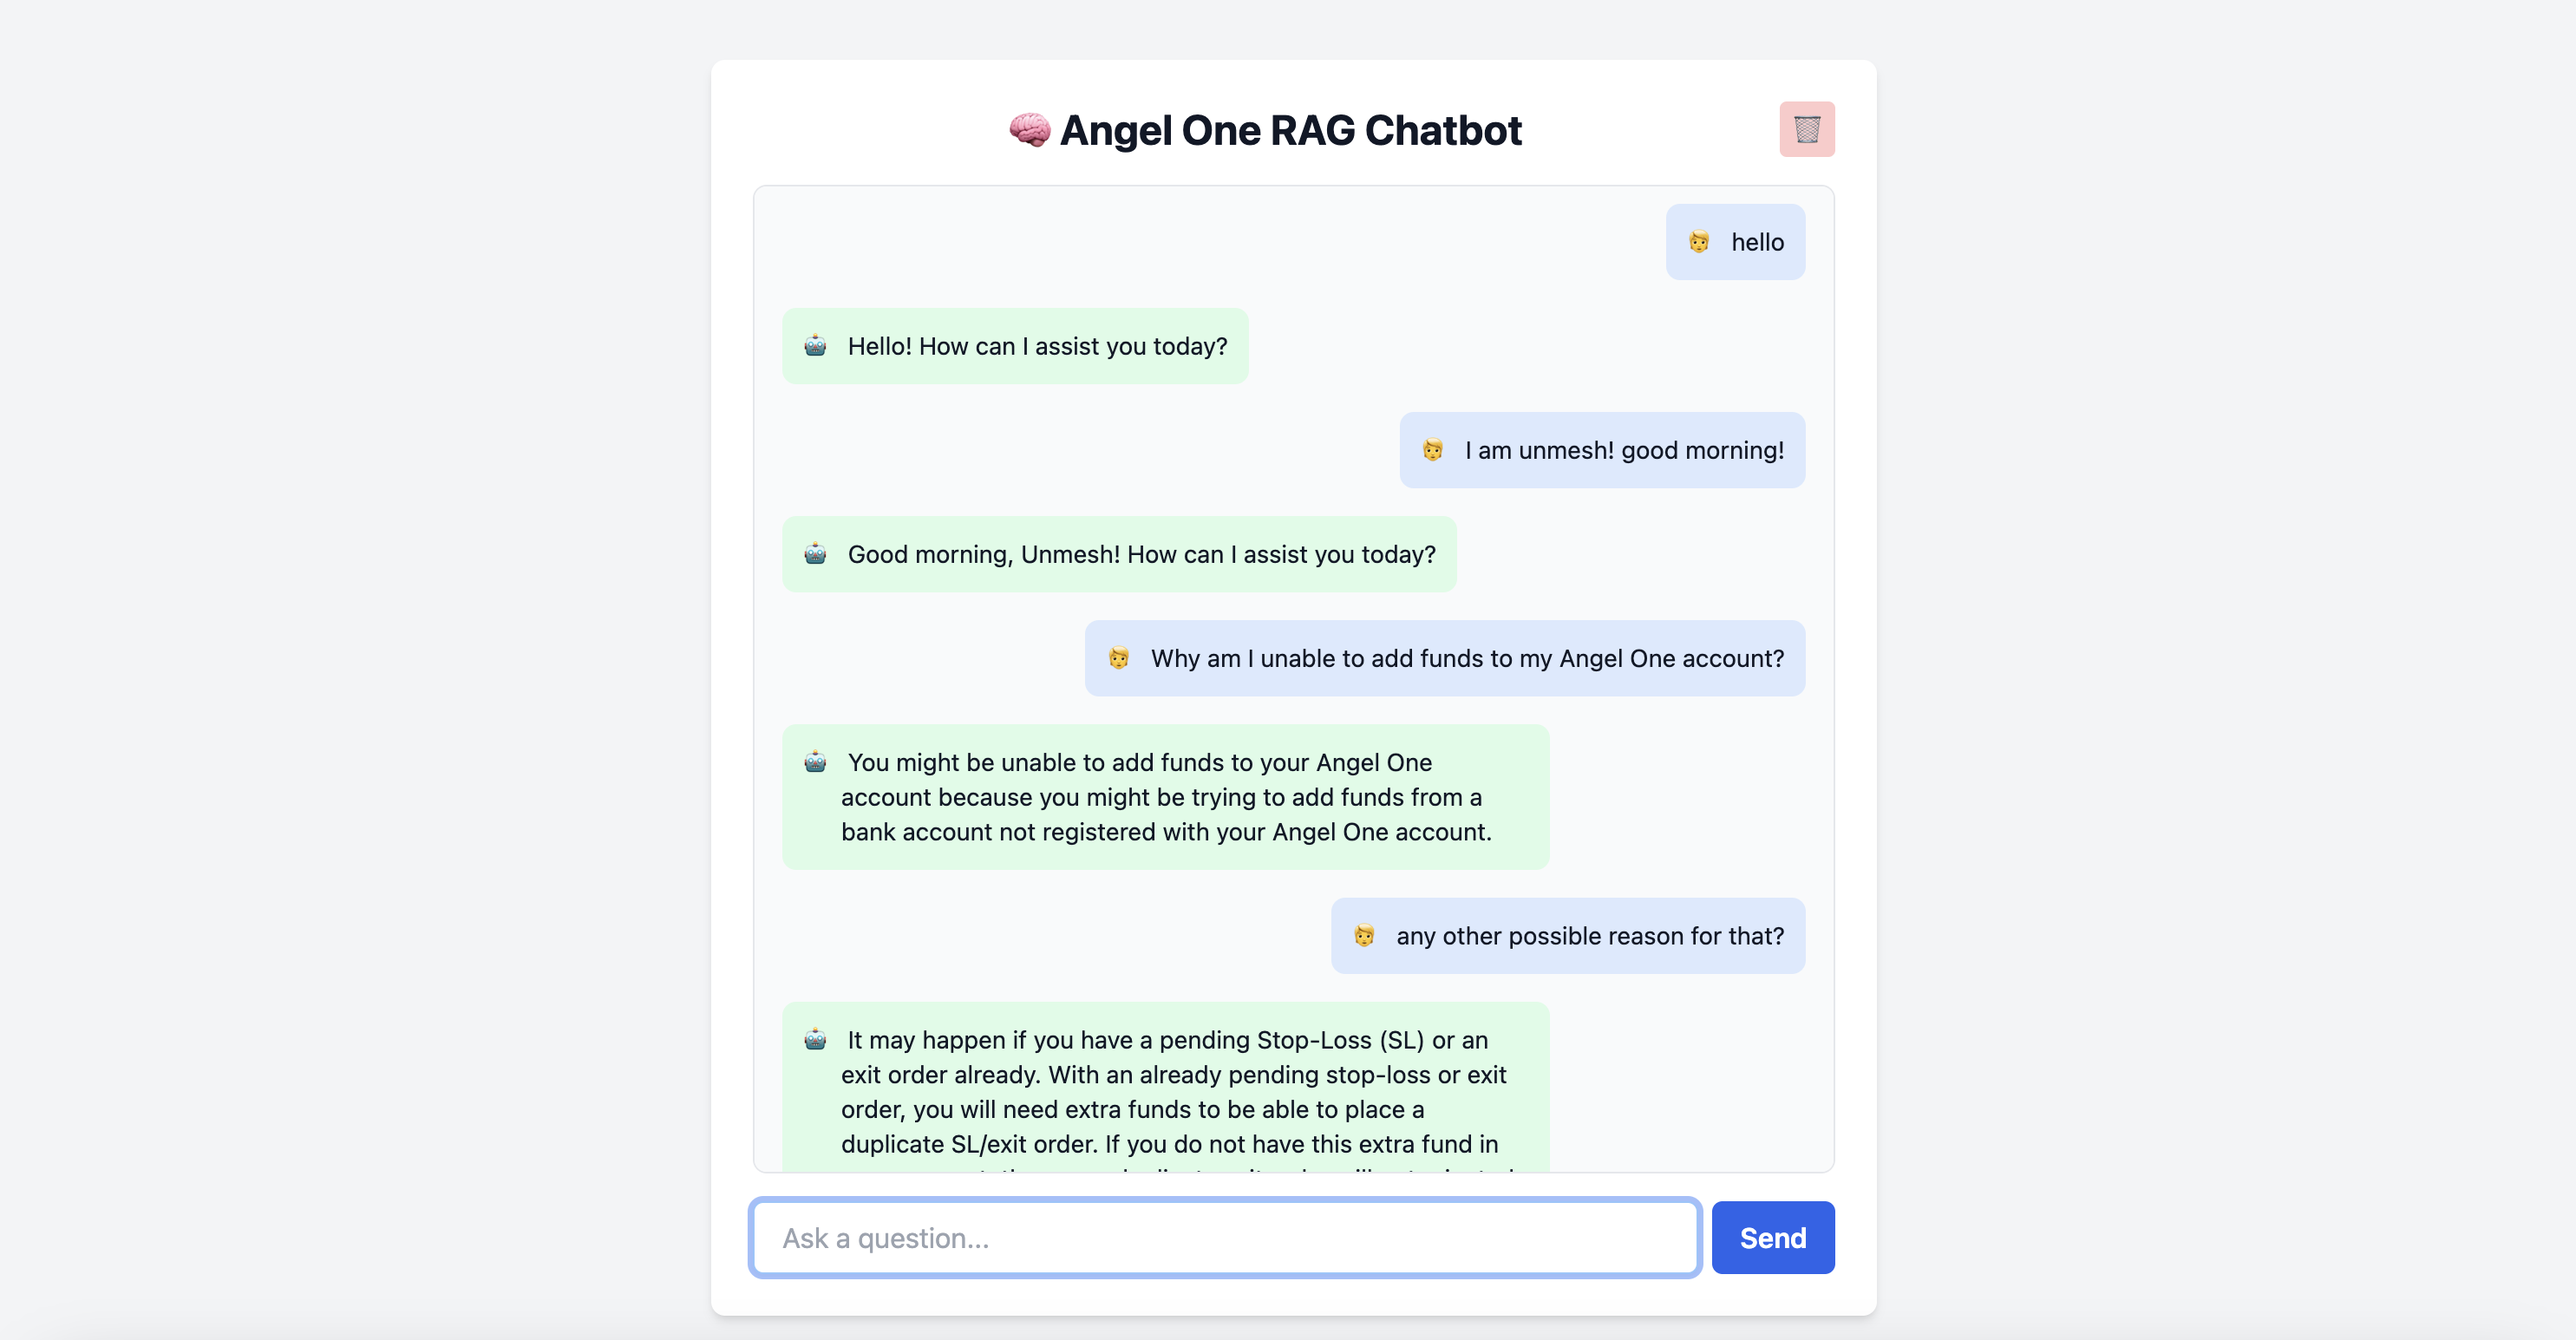
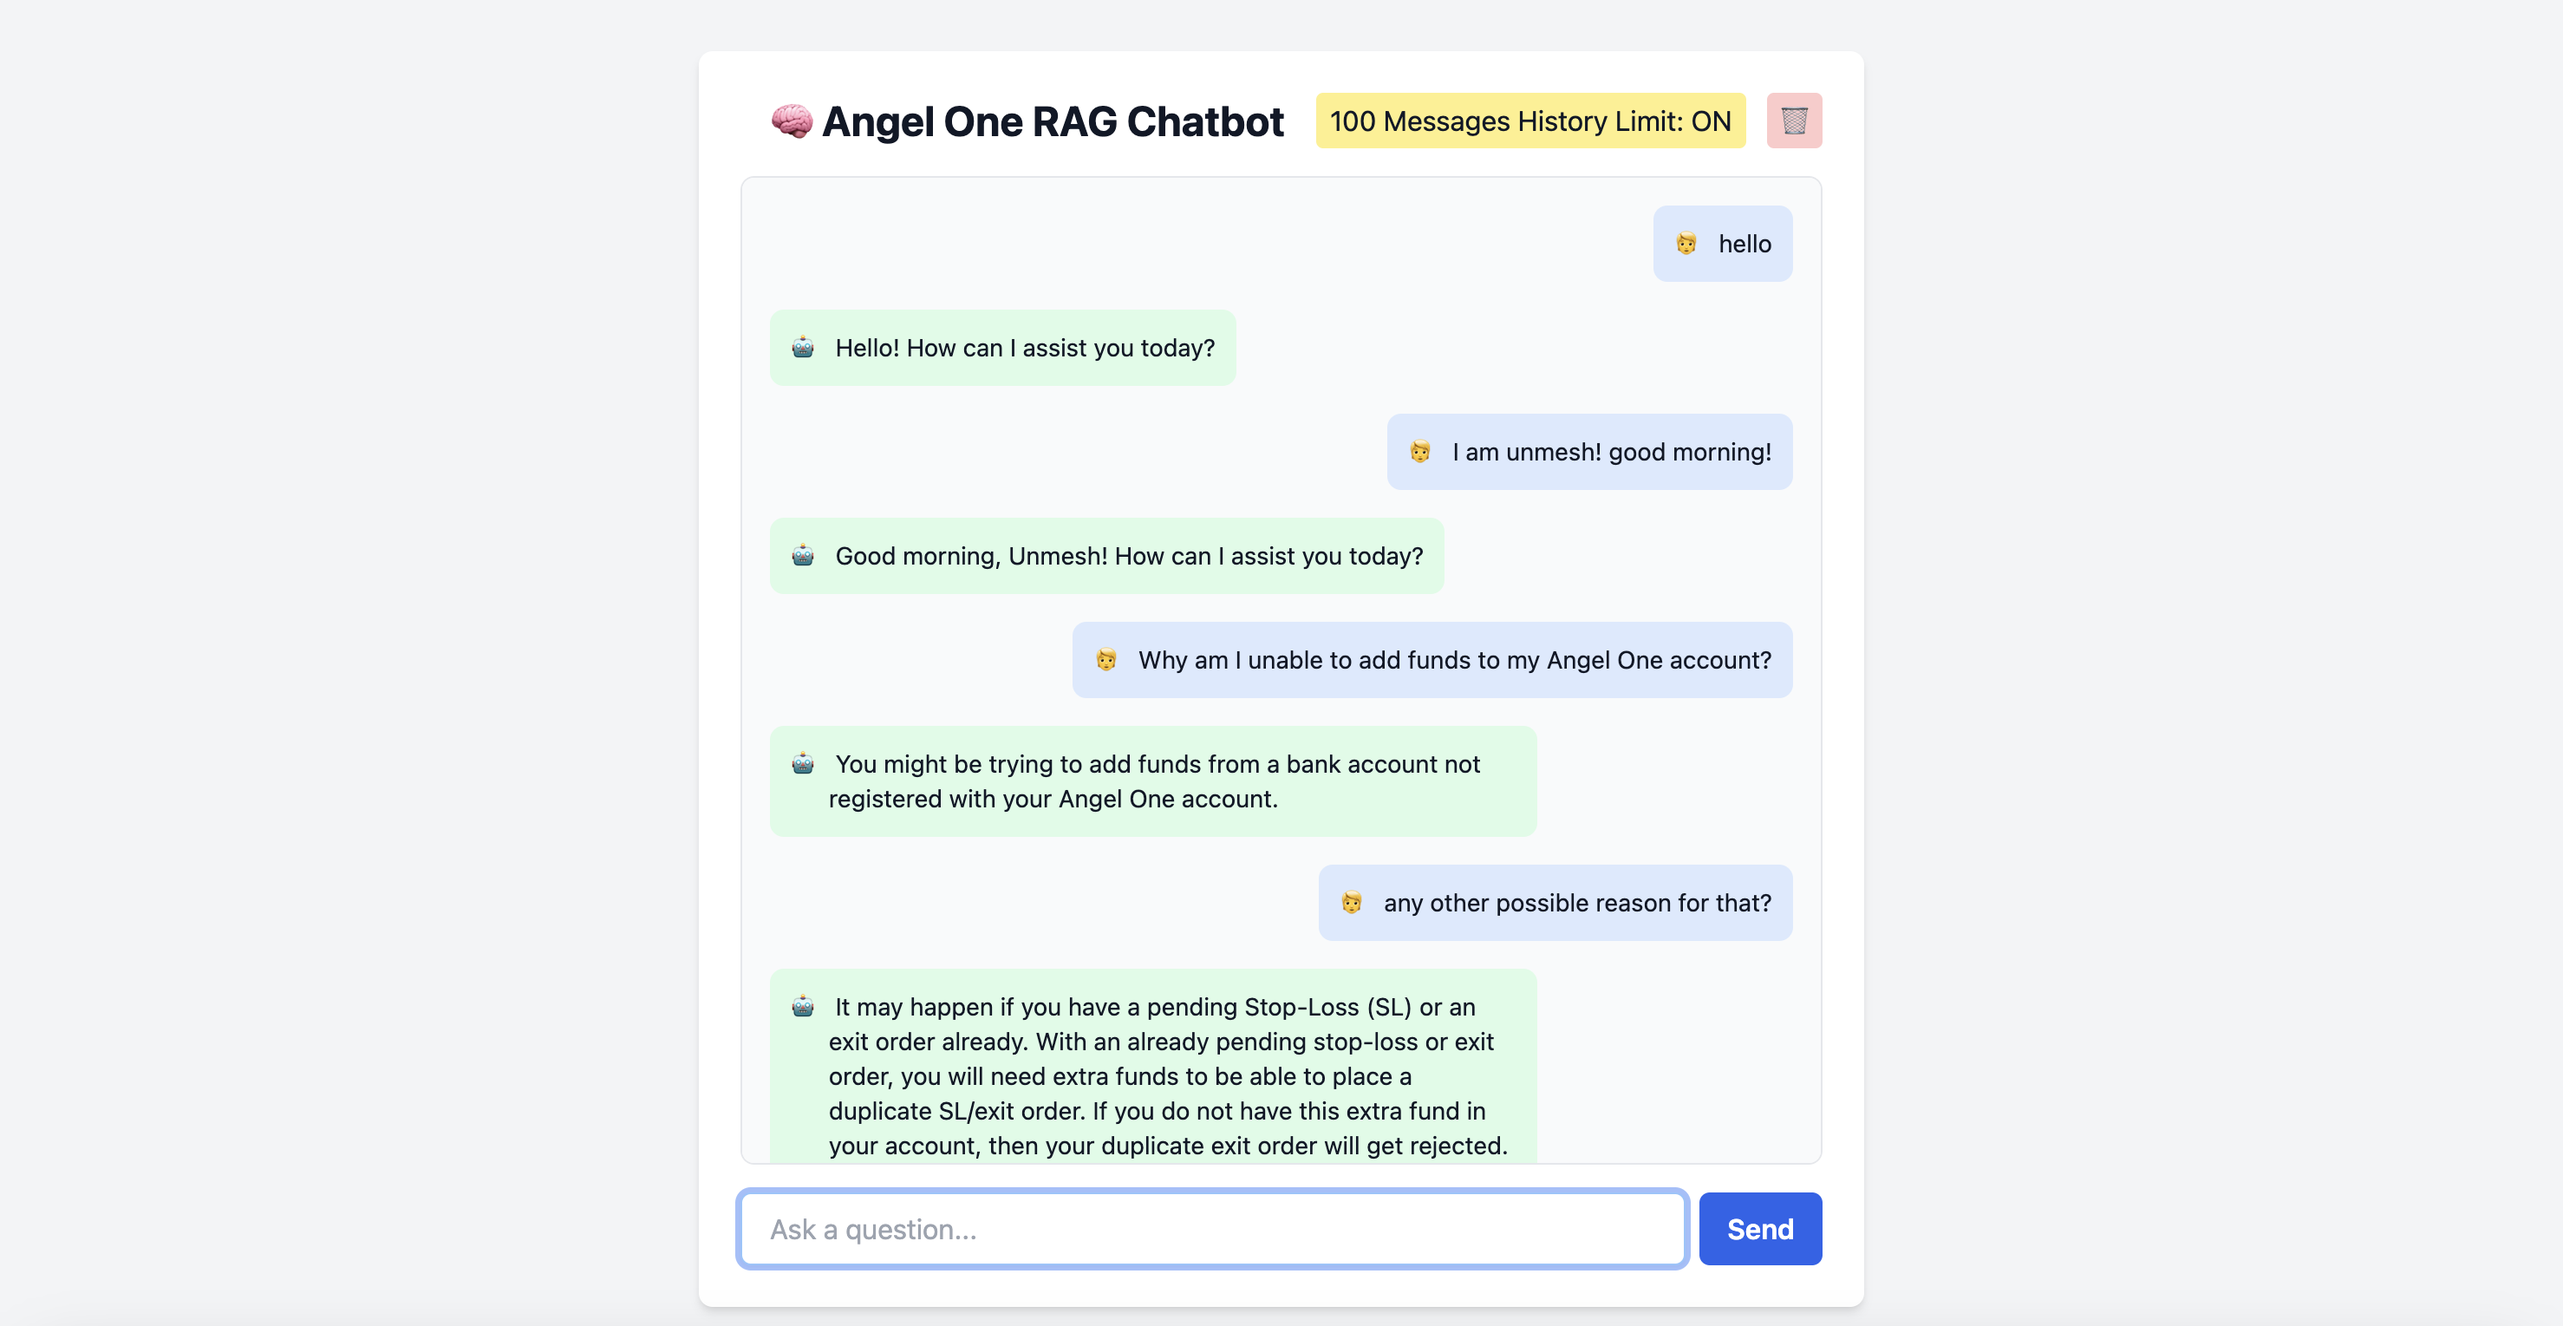
add last 100 message feature

diff --git a/chatbot/static/chatbot/chat.js b/chatbot/static/chatbot/chat.js
@@ -2,8 +2,11 @@ const chatBox = document.getElementById('chat-box');
 const chatForm = document.getElementById('chat-form');
 const userInput = document.getElementById('user-input');
 const clearChatBtn = document.getElementById('clear-chat');
+const toggleLimitBtn = document.getElementById('toggle-limit');
+const limitToggleText = '100 Messages History Limit';
 
 let chatHistory = JSON.parse(localStorage.getItem('chatHistory')) || [];
+let isLimitEnabled = JSON.parse(localStorage.getItem('limitTo100')) || false;
 
 function appendMessage(sender, message) {
     const container = document.createElement('div');
@@ -11,12 +14,7 @@ function appendMessage(sender, message) {
 
     const bubble = document.createElement('div');
     bubble.classList.add('p-3', 'rounded-lg', 'max-w-[75%]', 'whitespace-pre-wrap', 'flex', 'items-start', 'gap-2');
-
-    if (sender === 'user') {
-        bubble.classList.add('bg-blue-100');
-    } else {
-        bubble.classList.add('bg-green-100');
-    }
+    bubble.classList.add(sender === 'user' ? 'bg-blue-100' : 'bg-green-100');
 
     const avatar = document.createElement('div');
     avatar.textContent = sender === 'user' ? '🧑' : '🤖';
@@ -38,6 +36,13 @@ function renderChatHistory() {
     });
 }
 
+function updateChatHistory() {
+    if (isLimitEnabled && chatHistory.length > 100) {
+        chatHistory = chatHistory.slice(-100);
+    }
+    localStorage.setItem('chatHistory', JSON.stringify(chatHistory));
+}
+
 chatForm.addEventListener('submit', async (e) => {
     e.preventDefault();
     const question = userInput.value.trim();
@@ -45,12 +50,8 @@ chatForm.addEventListener('submit', async (e) => {
 
     appendMessage('user', question);
     chatHistory.push({ role: 'user', content: question });
-    // Limit to last 100 messages
-    if (chatHistory.length > 100) {
-        chatHistory = chatHistory.slice(-100);
-    }
-    localStorage.setItem('chatHistory', JSON.stringify(chatHistory));
     userInput.value = '';
+    updateChatHistory();
 
     try {
         const response = await fetch('/chat/', {
@@ -64,19 +65,9 @@ chatForm.addEventListener('submit', async (e) => {
         const data = await response.json();
         appendMessage('bot', data.answer);
         chatHistory.push({ role: 'bot', content: data.answer });
-        if (chatHistory.length > 100) {
-            chatHistory = chatHistory.slice(-100);
-        }
-        localStorage.setItem('chatHistory', JSON.stringify(chatHistory));
+        updateChatHistory();
     } catch (error) {
         appendMessage('bot', "❌ Sorry, something went wrong.");
-    }
-});
-
-userInput.addEventListener("keydown", function (event) {
-    if (event.key === "Enter" && !event.shiftKey) {
-        event.preventDefault();
-        chatForm.dispatchEvent(new Event("submit"));
     }
 });
 
@@ -96,5 +87,28 @@ clearChatBtn.addEventListener('click', () => {
     chatBox.innerHTML = '';
 });
 
-// On page load
+toggleLimitBtn.addEventListener('click', () => {
+    isLimitEnabled = !isLimitEnabled;
+    localStorage.setItem('limitTo100', JSON.stringify(isLimitEnabled));
+    updateLimitButtonText();
+
+    if (isLimitEnabled && chatHistory.length > 100) {
+        chatHistory = chatHistory.slice(-100);
+        updateChatHistory();
+        renderChatHistory();
+    }
+});
+
+function updateLimitButtonText() {
+    toggleLimitBtn.textContent = isLimitEnabled ? `${limitToggleText}: ON` : `${limitToggleText}: OFF`;
+}
+
+updateLimitButtonText();
 renderChatHistory();
+
+userInput.addEventListener("keydown", function (event) {
+    if (event.key === "Enter" && !event.shiftKey) {
+        event.preventDefault();
+        chatForm.dispatchEvent(new Event("submit"));
+    }
+});

diff --git a/chatbot/templates/chatbot/chat.html b/chatbot/templates/chatbot/chat.html
@@ -11,7 +11,8 @@
     <div class="w-full max-w-2xl p-6 mt-10 bg-white shadow-md rounded-lg">
         <div class="flex justify-between items-center mb-4">
             <h1 class="text-2xl font-bold text-center flex-1">🧠 Angel One RAG Chatbot</h1>
-            <div>
+            <div class="space-x-2">
+                <button id="toggle-limit" class="px-2 py-1 rounded bg-yellow-200">100 Messages History Limit: OFF</button>
                 <button id="clear-chat" class="px-2 py-1 rounded bg-red-200">🗑</button>
             </div>
         </div>

diff --git a/chatbot/static/chatbot/styles.css b/chatbot/static/chatbot/styles.css
@@ -1,9 +1,9 @@
-/* Smooth transition */
+/* Smooth transition between themes */
 html {
    transition: background-color 0.3s ease, color 0.3s ease;
 }
 
-/* Scrollbar styling */
+/* Custom scrollbar styling */
 #chat-box::-webkit-scrollbar {
    width: 8px;
 }
@@ -25,6 +25,7 @@ html {
 }
 
 /* Button hover effects */
+#toggle-limit:hover,
 #clear-chat:hover {
    opacity: 0.9;
    transition: opacity 0.2s ease-in-out;

diff --git a/README.md b/README.md
@@ -14,7 +14,8 @@ A Retrieval-Augmented Generation (RAG) chatbot built using Django and LangChain.
 - Beautiful chat UI using TailwindCSS
 - Stores full conversation history in localstorage so will work even after tab closure and across multiple tabs
 - Has clear chat button in case one wants to start from beginning
-- Makes use of older conversation to answer like a human
+- Makes use of older conversations to answer like a human
+- Has Option to toggle only storing history of last 100 messages for better performance in case of really long conversations
 
 ## 🛠 Setup Instructions
 
